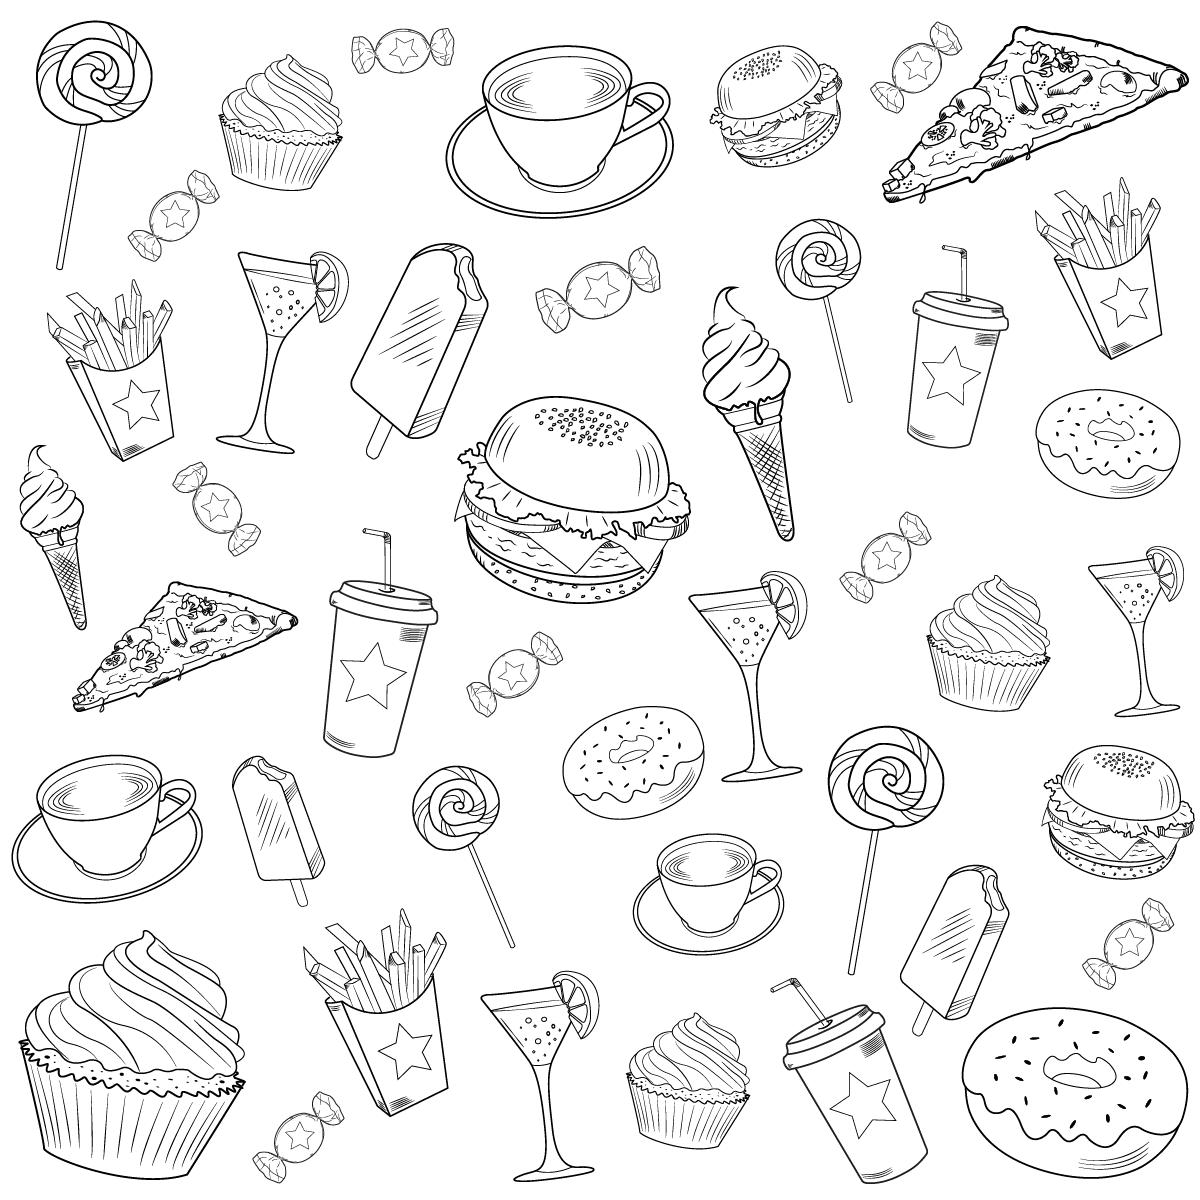
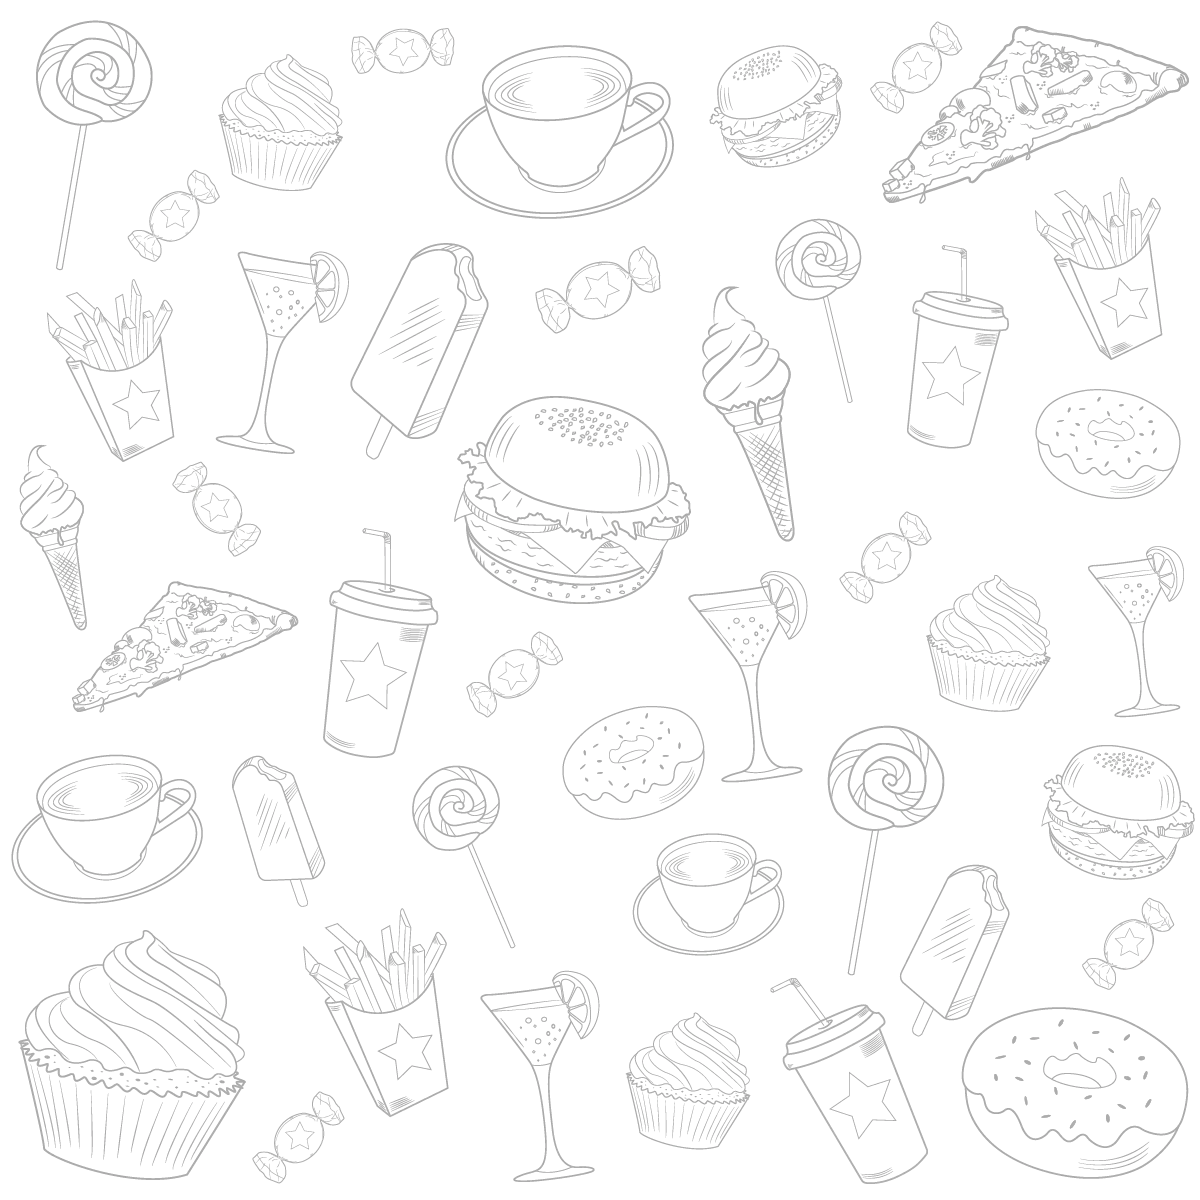
Updated background image, cart, and account css

diff --git a/includes/css/style.css b/includes/css/style.css
@@ -1,6 +1,6 @@
 :root{
 	--background-colour : rgba(250, 206, 127, 0.8);
-    --card-colour: rgba(236, 200, 133, .9);	
+    --card-colour: rgba(236, 200, 133, .7);	
 	--header-colour : rgb(145, 31, 39);			
 	--emphasis-1 : rgb(99, 10, 16);				
     --emphasis-1-faded: rgba(99, 10, 16, 0.3);
@@ -112,7 +112,7 @@ nav.navbar.navbar-expand-lg.bg.fixed-top{
     background-color: var(--header-colour);
 }
 
-table, th, td { border-bottom: 1px solid var(--emphasis-1);}
+th, td { border-bottom: 1px solid var(--emphasis-1);}
 .item_picture {width: 100%; aspect-ratio: 1/1; object-fit: cover;}
 .cart_picture {width: 20%; aspect-ratio: 1/1; object-fit: cover;}
 

diff --git a/includes/php/history.php b/includes/php/history.php
@@ -12,7 +12,7 @@
             $oDate = $row['date'];
 
             // find all the items and info for the individual order
-            $newSql = "SELECT oi.order_id, oi.quantity, m.item_name, m.item_price, o.total, o.date, o.shipping, o.tax
+            $newSql = "SELECT oi.order_id, oi.quantity, m.item_name, m.item_price, o.total, FORMAT(o.date, 'dd-MM-yy'), o.shipping, o.tax
                     from orders o inner join order_items oi using (order_id) inner join menu_items m using (item_id)
                     where order_id='$order'
                     order by o.date desc";
@@ -31,65 +31,26 @@
 
                 // each order is placed into a collapse 
                 print   "<a class='btn btn-primary mb-2' data-bs-toggle='collapse' data-bs-target='#collapse$order' href='#collapse$order' role='button' aria-expanded='false' aria-controls='#collapse$order'>
-                            Order on $oDate
+                            Order #$order on $oDate &emsp;Tax: $$tax &emsp;Delivery: $$shipping &emsp;Total: $$total
                         </a>";
                 print   "<div class='collapse'  id='collapse$order'>
                             <div class='card mb-3'>
                                 <div class='row g-0'>
-                                    <div class='col'>
-                                        <h5 class='card-title'>Order #$order</h5>
-                                    </div>
-                                    <div class='col-8'>
-                                        <table width='100%'>
-                                            <tr>
-                                                <th align='left' width='50%'>Name</th>
-                                                <th align='left' width='20%'>Cost</th>
-                                                <th align='left' width='20%'>Amount</th>
-                                            </tr>";
+                                    <table class='d-flex align-items-center justify-content-center' width='100%'>
+                                        <tr>
+                                            <th align='left' width='50%'>Name</th>
+                                            <th align='left' width='20%'>Cost</th>
+                                            <th align='left' width='20%'>Amount</th>
+                                        </tr>";
                 // go through the arrays to fill in the data for each field             
                 for ($i = 0; $i < count($nameArray); $i++) {
-                    print                   "<tr>
-                                                <td align='left'>". $nameArray[$i] ."</td>
-                                                <td align='left'>$". $priceArray[$i] ."</td>
-                                                <td align='left'>". $quantityArray[$i] ."</td>
-                                            </tr>";
-                }
-                    print           "    </table>
-                                    </div>
-                                    
-                                    <div class='col-2'>
-                                        <table>
-                                            <tr>
-                                                <th align='center'>Shipping</th>
-                                            </tr>
-                                            <tr>
-                                                <td align='center'>$$shipping</td>
-                                            </tr>
-                                        </table>
-                                    </div>
-
-                                    <div class='col'>
-                                        <table>
-                                            <tr>
-                                                <th align='center'>Tax</th>
-                                            </tr>
-                                            <tr>
-                                                <td align='center'>$$tax</td>
-                                            </tr>
-                                        </table>
-                                    </div>
-
-                                    <div class='col'>
-                                        <table>
-                                            <tr>
-                                                <th align='center'>Total</th>
-                                            </tr>
-                                            <tr>
-                                                <td align='center'>$$total</td>
-                                            </tr>
-                                        </table>
-                                    </div>
-                                    
+                    print               "<tr>
+                                            <td align='left'>". $nameArray[$i] ."</td>
+                                            <td align='left'>$". $priceArray[$i] ."</td>
+                                            <td align='left'>". $quantityArray[$i] ."</td>
+                                        </tr>";
+            }
+                    print      "    </table>                                 
                                 </div>
                             </div>
                         </div>";

diff --git a/includes/php/cart.php b/includes/php/cart.php
@@ -15,7 +15,7 @@
     <?php
     require('connection.php');
     $u_id = $_SESSION['user_id'];
-    $sql = "SELECT cart_items.item_id, item_name, item_picture, quantity, item_price, item_price * quantity AS 'TotalPrice' 
+    $sql = "SELECT cart_items.item_id, item_name, item_picture, quantity, item_price 
             FROM cart_items
             INNER JOIN menu_items ON cart_items.item_id = menu_items.item_id
             WHERE user_id = $u_id";
@@ -26,16 +26,15 @@
     if ($num > 0) {
         // Display the cart contents in a table
         echo '<div class="d-flex justify-content-center">
-                <table id="cart" class="col-11 mt-1">
+                <table id="cart" class="col-10 mt-1 pt-4 pb-4">
 
             <thead>
                 <tr>
-                    <th class="text-center col-2">Item Name</th>
-                    <th class="text-center col-2">Item Picture</th>
+                    <th class="text-end col-3">Item</th>
+                    <th class="text-center col-3"></th>
                     <th class="text-center col-2">Quantity</th>
-                    <th class="text-center col-1">Price</th>
-                    <th class="text-center col-1">Total Price</th>
-                    <th class="text-center col-1">Delete item</th>
+                    <th class="text-center col-1">Price Per Item</th>
+                    <th class="text-center"></th>
                 </tr>
             </thead>
             <tbody>';
@@ -48,13 +47,12 @@
             $subtotal = $row['quantity'] * $row['item_price'];
             $numItems += $row['quantity'];
             $totalPrice += $subtotal;
-            $grandTotal = number_format($subtotal, 2);
            
              
             ob_start();
             echo '<tr>
-                <td class="text-center">' . $row['item_name'] . '</td>
                 <td class="text-center "><img class="cart_picture" src="../images/' . $row['item_picture'] . '" alt="'.$row['item_name'].'"></td>
+                <td class="text-center">' . $row['item_name'] . '</td>
                 <form method="post">
                 <td class="text-center">
                 <div class="d-flex flex-row justify-content-center align-items-center">
@@ -65,7 +63,7 @@
                             <path d="M4 8a.5.5 0 0 1 .5-.5h7a.5.5 0 0 1 0 1h-7A.5.5 0 0 1 4 8z"/>
                         </svg>
                     </button>
-                    <span class="quantity"> &nbsp;' .$row['quantity'] . '&nbsp; </span>
+                    <span class="quantity"> &emsp;' .$row['quantity'] . '&emsp; </span>
                     <button class="btn btn-primary border-0" type="submit" name="action" value="increase">
                         <svg xmlns="http://www.w3.org/2000/svg" width="16" height="16" fill="currentColor" class="bi bi-plus-circle" viewBox="0 0 16 16">
                             <path d="M8 15A7 7 0 1 1 8 1a7 7 0 0 1 0 14zm0 1A8 8 0 1 0 8 0a8 8 0 0 0 0 16z"/>
@@ -77,7 +75,6 @@
                 </form>
 
                 <td class="text-center">$' . $row['item_price'] . '</td>
-                <td class="text-center">$' . $grandTotal . '</td>
                 <form method="post">
                 <td class="text-center">
                 <input type="hidden" name="item_id" value="'.$row['item_id'].'" />
@@ -110,7 +107,7 @@
         $postal = $row_address['postal'];
         $phone = $row_address['phone'];
 
-        echo '<div id="cart_info" class="container">
+        echo '<div id="cart_info" class="container-fluid col-10">
                 <div class="row">
                     <div class="col d-flex flex-column align-items-start">
                         <div class="fw-bold">Delivery Address:</div>
@@ -130,7 +127,7 @@
             </div>';
     } else {
         echo '<div class="background w-25 d-flex justify-content-center me-auto ms-auto rounded">
-                <p class="pt-2">No items in the cart</p>
+                <p class="pt-2 fw-bold">No items in the cart</p>
             </div>';
     }
     

diff --git a/includes/php/items.php b/includes/php/items.php
@@ -69,7 +69,7 @@
 		<td class="text-center" width="15%"><b>Name</b></td>
         <td class="text-center" width="40%"><b>Description</b></td>
 		<td class="text-center" width="10%"><b>Price</b></td>
-		<td class="text-center"><b>Edith</b></td>
+		<td class="text-center"><b>Edit</b></td>
 		<td class="text-center"><b>Delete</b></td>
         <td class="text-center"><b>E/D</b></td>
 	</tr>';
@@ -86,7 +86,7 @@
 						<td align=\"center\"><img src=\"./includes/images/{$row['item_picture']}\" class='item_picture'></td>
 						<td align=\"center\">{$row['item_name']}</td>
 						<td align=\"left\">{$row['item_desc']}</td>
-						<td align=\"center\">{$row['item_price']}$</td>
+						<td align=\"center\">${$row['item_price']}</td>
 						<td align=\"center\"> <button item_id=\"{$row['item_id']}\" item_name=\"{$row['item_name']}\" item_desc=\"{$row['item_desc']}\" item_price=\"{$row['item_price']}\" type='button' class='btn btn-primary edit'>Edit</button></td>
 						<td align=\"center\"> <button item_id=\"{$row['item_id']}\" item_name=\"{$row['item_name']}\" type='button' class='btn btn-primary delete'>Delete</button></td>
 						<td align=\"center\"> <button item_id=\"{$row['item_id']}\" item_name=\"{$row['item_name']}\" type='button' class='btn btn-primary enable'>Enable</button></td>
@@ -99,7 +99,7 @@
 						<td align=\"center\"><img src=\"./includes/images/{$row['item_picture']}\" class='item_picture'></td>
 						<td align=\"center\">{$row['item_name']}</td>
 						<td align=\"left\">{$row['item_desc']}</td>
-						<td align=\"center\">{$row['item_price']}$</td>
+						<td align=\"center\">\${$row['item_price']}</td>
 						<td align=\"center\"> <button item_id=\"{$row['item_id']}\" item_name=\"{$row['item_name']}\" item_desc=\"{$row['item_desc']}\" item_price=\"{$row['item_price']}\" type='button' class='btn btn-primary edit'>Edit</button></td>
 						<td align=\"center\"> <button item_id=\"{$row['item_id']}\" item_name=\"{$row['item_name']}\" type='button' class='btn btn-primary delete'>Delete</button></td>
 						<td align=\"center\"> <button item_id=\"{$row['item_id']}\" item_name=\"{$row['item_name']}\" type='button' class='btn btn-primary disable'>Disable</button></td>
